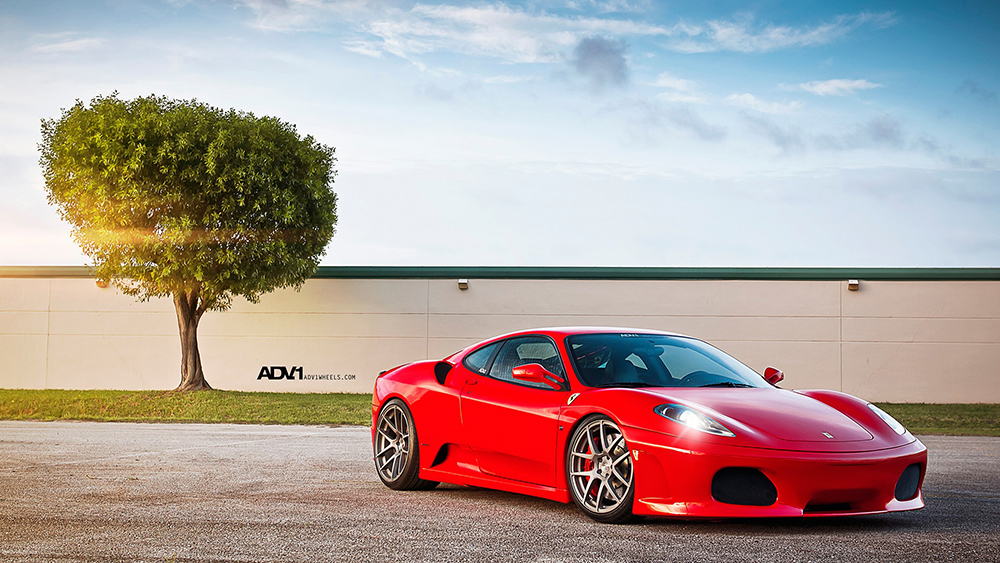
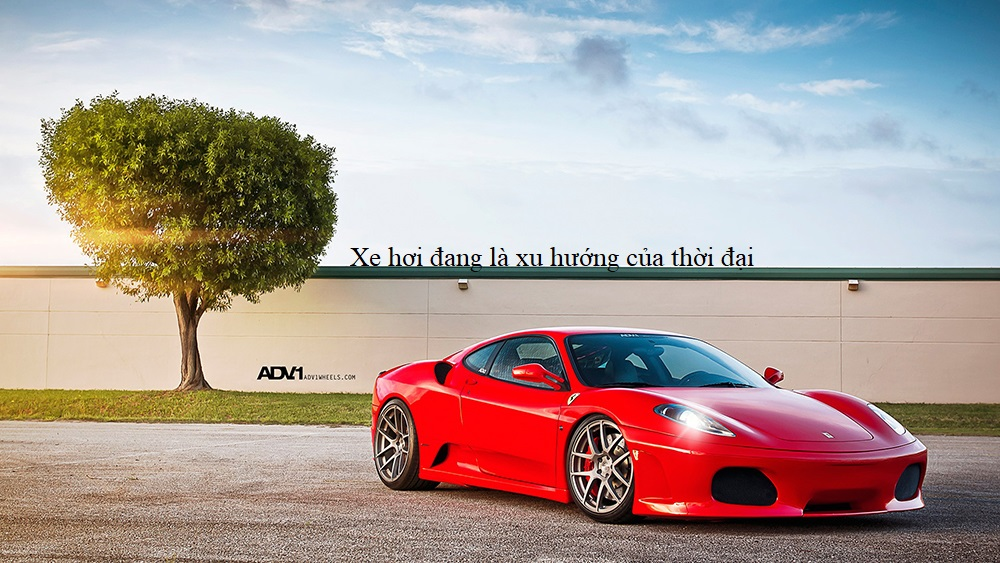
update 1

diff --git a/2.html b/2.html
@@ -3,6 +3,7 @@
     <head>
         <title>Project</title>  
         <link rel="stylesheet" href="https://maxcdn.bootstrapcdn.com/bootstrap/4.5.0/css/bootstrap.min.css">
+        <link rel="stylesheet" type="text/css" href="./1.css">
         <script src="https://ajax.googleapis.com/ajax/libs/jquery/3.5.1/jquery.min.js"></script>
         <script src="https://maxcdn.bootstrapcdn.com/bootstrap/4.5.0/js/bootstrap.min.js"></script>
         <meta name="viewport" content="width=device-width, initial-scale=1.0">     
@@ -34,10 +35,12 @@
                 </li>
             </ul>
         </div>
-        <div class="bg">
-            <div></div>
+        <div class="part1"></div>
+        <div class="">
+            <form action="search" method="GET">
+                <input type="text">
+            </form>
         </div>
-        <div class=""></div>
         <link rel="stylesheet" type="text/css" href="./1.css">
     </body>
 </html>

diff --git a/1.css b/1.css
@@ -10,9 +10,19 @@ body, html {
 .nav-link {
     color: #ffffff;
 }
-.bg {
+.part1 {
+    position: relative;
     height: 600px;
     width: 100%;
     background: url(./hinh-nen-sieu-xe-ferari-3.jpg) no-repeat center center fixed;
     background-size: 100% 100%;
 }
+/* .content {
+    position: absolute;
+    font-size: 40px;
+    color: #ffffff;
+    left: 50%;
+    top: 50%;
+    transform: translateX(-50%) translateY(-50%);
+    -webkit-transform: translateX(-50%) translateY(-50%);
+} */
